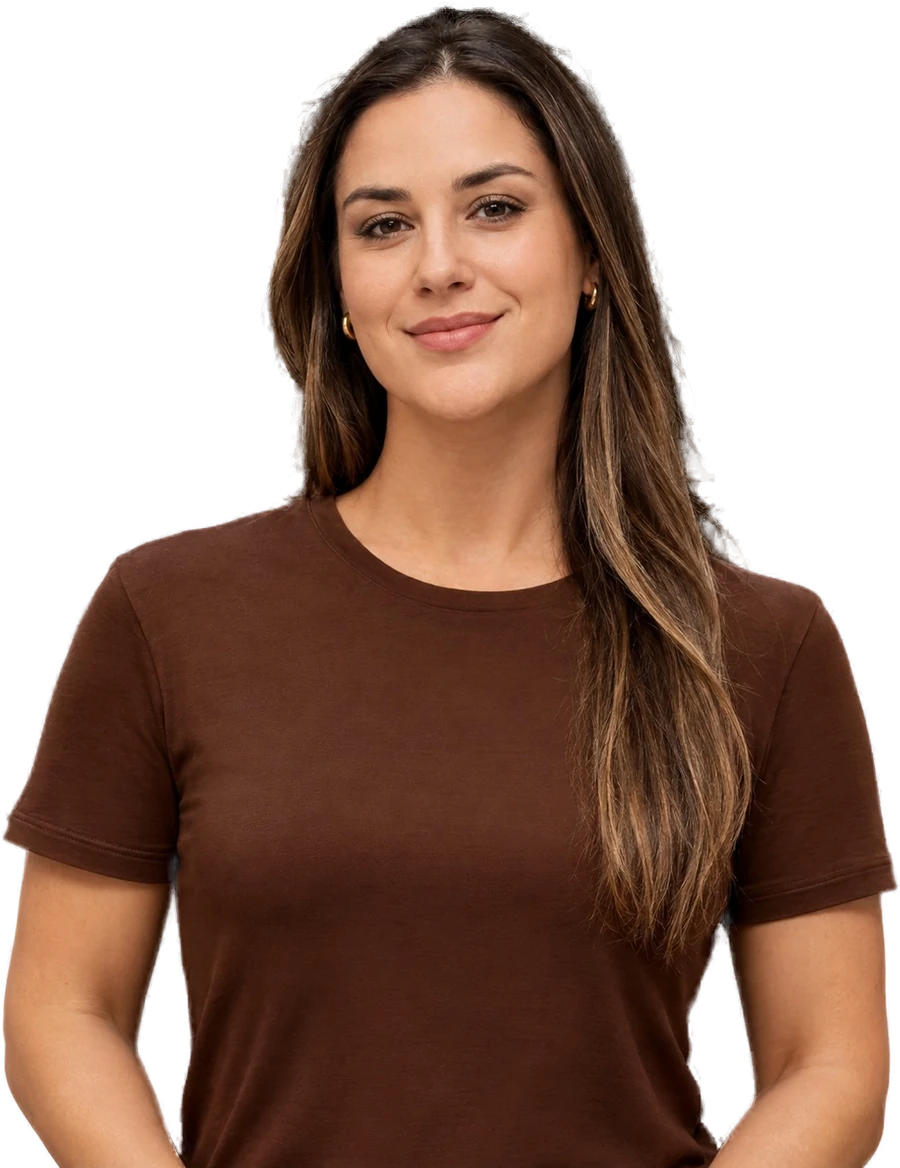
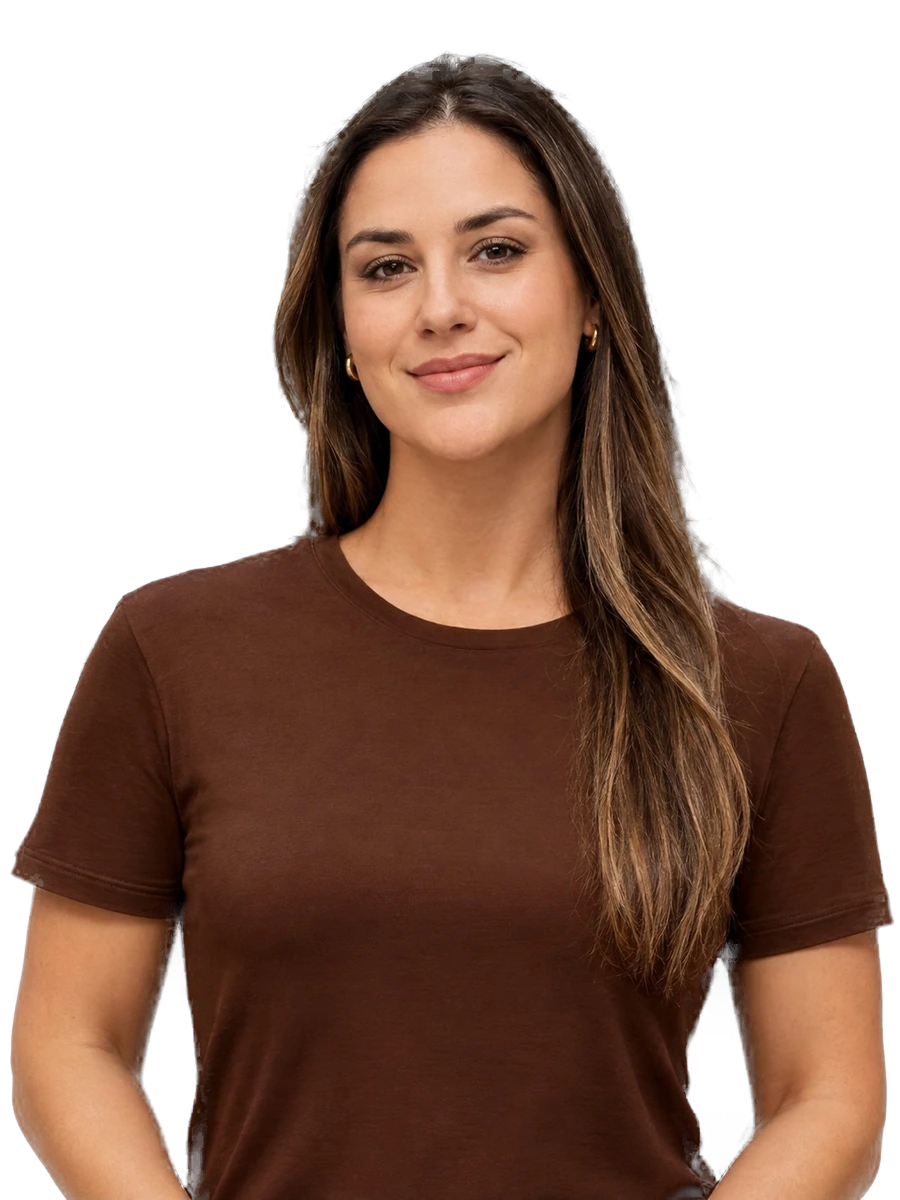
Fotos normalizadas na mesma tela e borda do cabelo mais fina
CABECA CORTADA
As quatro fotos tinham alturas diferentes depois do recorte, entao o cover
cortava cada uma num ponto — e nas do meio o corte pegava a cabeca. Tentei
contain primeiro: parou de cortar, mas deixou vazio em cima e cada pessoa de um
tamanho.

Agora as fotos sao normalizadas numa tela 3:4 com a cabeca sempre na mesma
altura relativa. Com isso o cover volta a preencher o cartao e so pode cortar
por baixo, onde nao ha rosto — e as quatro saem no mesmo tamanho.

BORDA DO CABELO
Comparei quatro ajustes de matting ampliados lado a lado. A faixa de incerteza
larga (erode 40) com limiar de frente baixo (170) e a que estima transparencia
em mais pixels da borda, e e onde os fios soltos aparecem. Estava em 10/240.

Changed region(s): [[0.0, 0.0, 0.9956, 1.0], [0.7467, 0.863, 0.8089, 1.0], [0.9333, 0.5548, 0.9644, 0.6473]]

diff --git a/quiz/v2/quiz-warm.css b/quiz/v2/quiz-warm.css
@@ -3713,9 +3713,13 @@ body.marca-na-tela-1:has(#s1.screen.active) .wrap {
   height: 100%;
   cursor: pointer;
 }
+/* As quatro fotos são normalizadas numa tela 3:4 com a cabeça sempre na mesma
+   altura, então o cover pode preencher o cartão cortando SÓ por baixo — nunca
+   pega rosto, e as pessoas saem no mesmo tamanho. O contain que estava aqui não
+   cortava, mas deixava vazio em cima e cada uma de um tamanho. */
 .age-foto img {
   width: 100%; height: 100%;
-  object-fit: cover; object-position: center 15%;
+  object-fit: cover; object-position: center top;
   display: block;
 }
 .age-foto__bar {

diff --git a/quiz/v2/index.html b/quiz/v2/index.html
@@ -56,7 +56,7 @@
   <link rel="preconnect" href="https://fonts.googleapis.com"/>
   <link rel="preconnect" href="https://fonts.gstatic.com" crossorigin/>
   <link rel="preload" as="style" href="https://fonts.googleapis.com/css2?family=Inter:wght@400;500;600;700;800;900&display=swap"/>
-  <link rel="stylesheet" href="quiz-warm.css?v=182"/>
+  <link rel="stylesheet" href="quiz-warm.css?v=184"/>
 </head>
 <body>
 
